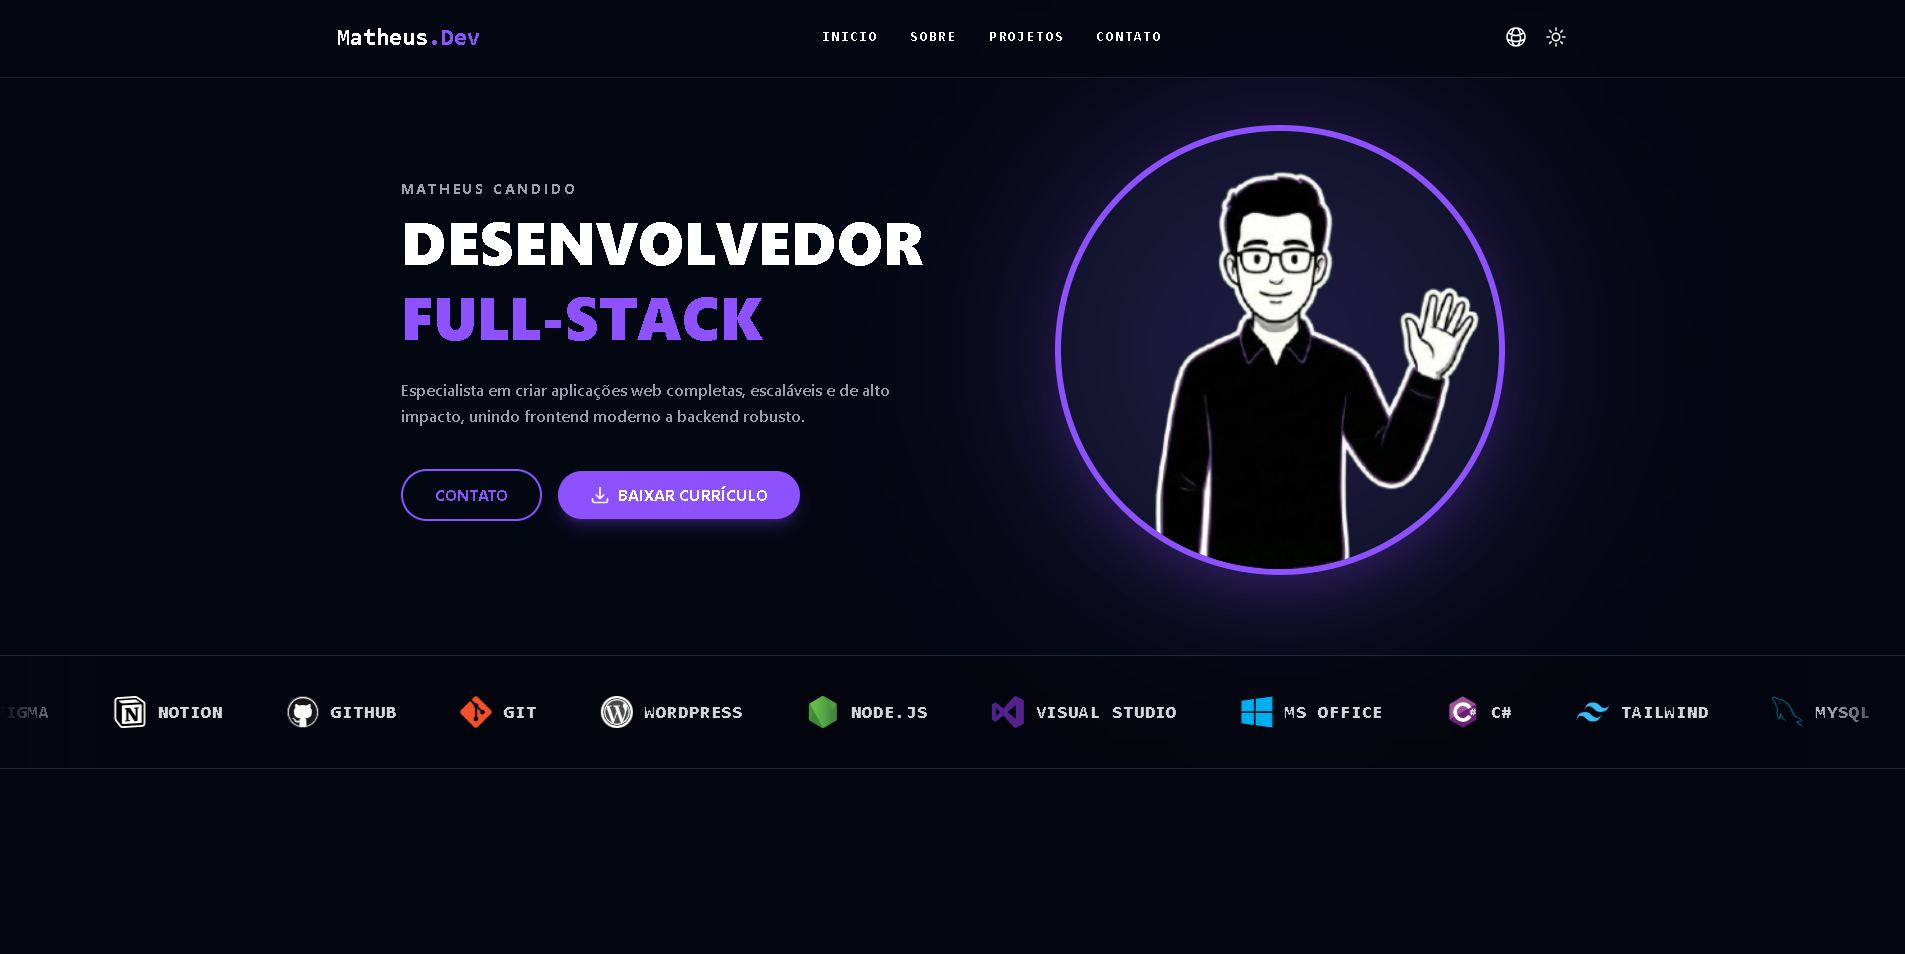
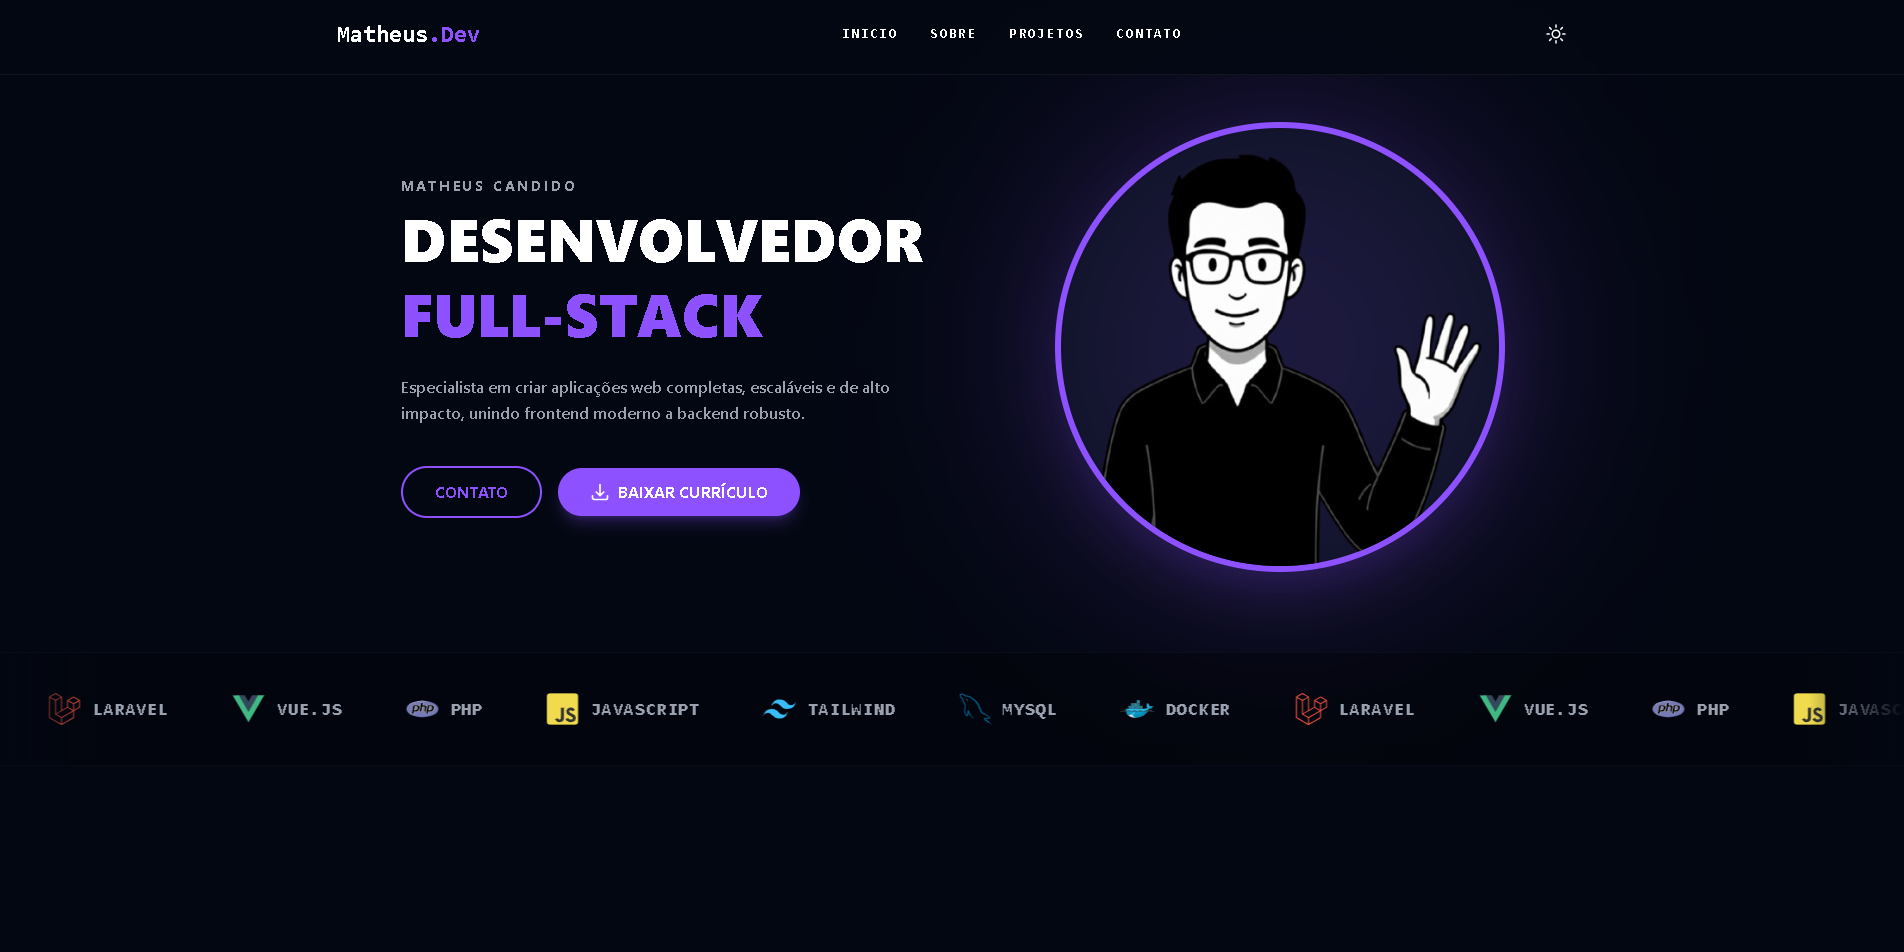
att

diff --git a/src/App.vue b/src/App.vue
@@ -181,7 +181,7 @@ const trocarCor = () => {
 
                 <div class="relative flex-shrink-0">
                     <div class="w-64 h-64 lg:w-[450px] lg:h-[450px] rounded-full border-[6px] border-violet-500 overflow-hidden shadow-2xl shadow-violet-500/20 bg-gray-900/50 relative z-10">
-                        <img src="/img/ee.png" alt="Foto de Matheus Candido" class="object-cover w-full h-full"/>
+                        <img src="/img/ee.png" alt="Foto de Matheus Candido" class="object-fill w-full h-full"/>
                     </div>
                     <div class="absolute inset-0 bg-violet-500 blur-[100px] opacity-30 rounded-full -z-10"></div>
                 </div>
@@ -312,7 +312,7 @@ const trocarCor = () => {
                         <div class="flex flex-col justify-center">
                             <div class="flex items-center gap-6 mb-8">
                                 <div class="w-24 h-24 rounded-full bg-violet-600 flex items-center justify-center p-1 shadow-xl shadow-violet-600/20">
-                                   <img src="/public/img/contact.png" alt="Avatar" class="w-full h-full object-cover rounded-full border-2 border-white/10"/>
+                                   <img src="/public/img/contact.png" alt="Avatar" class="w-full h-full object-fit rounded-full border-2 border-white/10"/>
                                 </div>
                             </div>
                             
